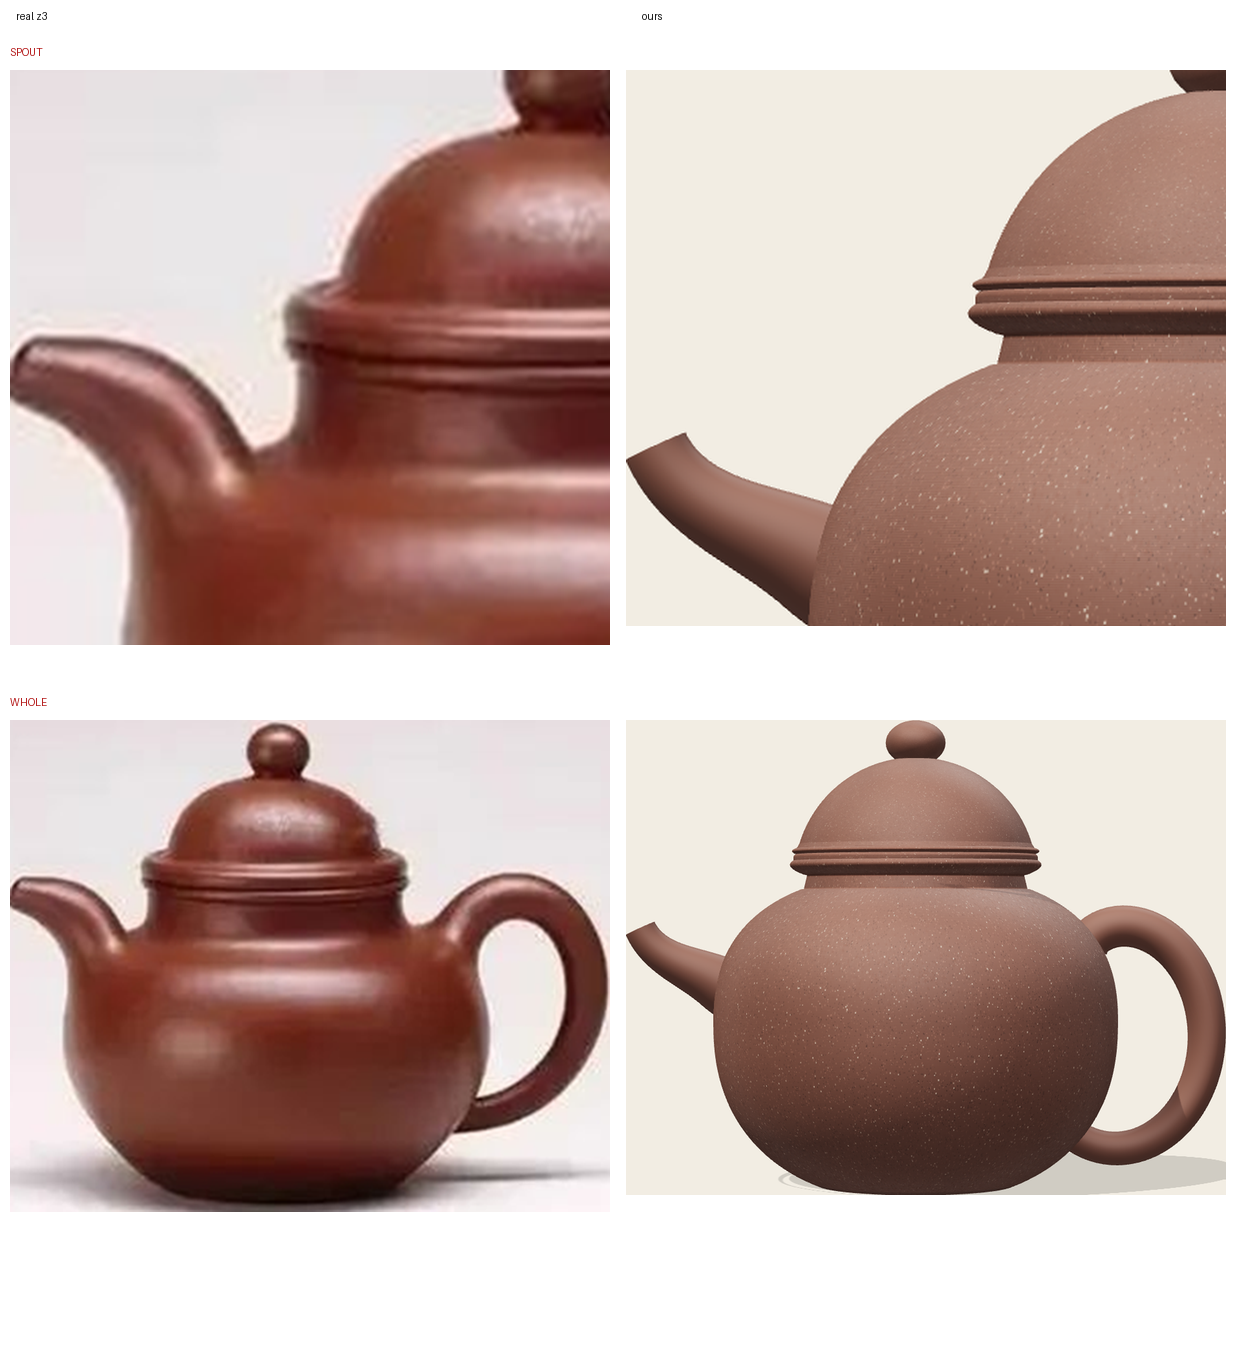
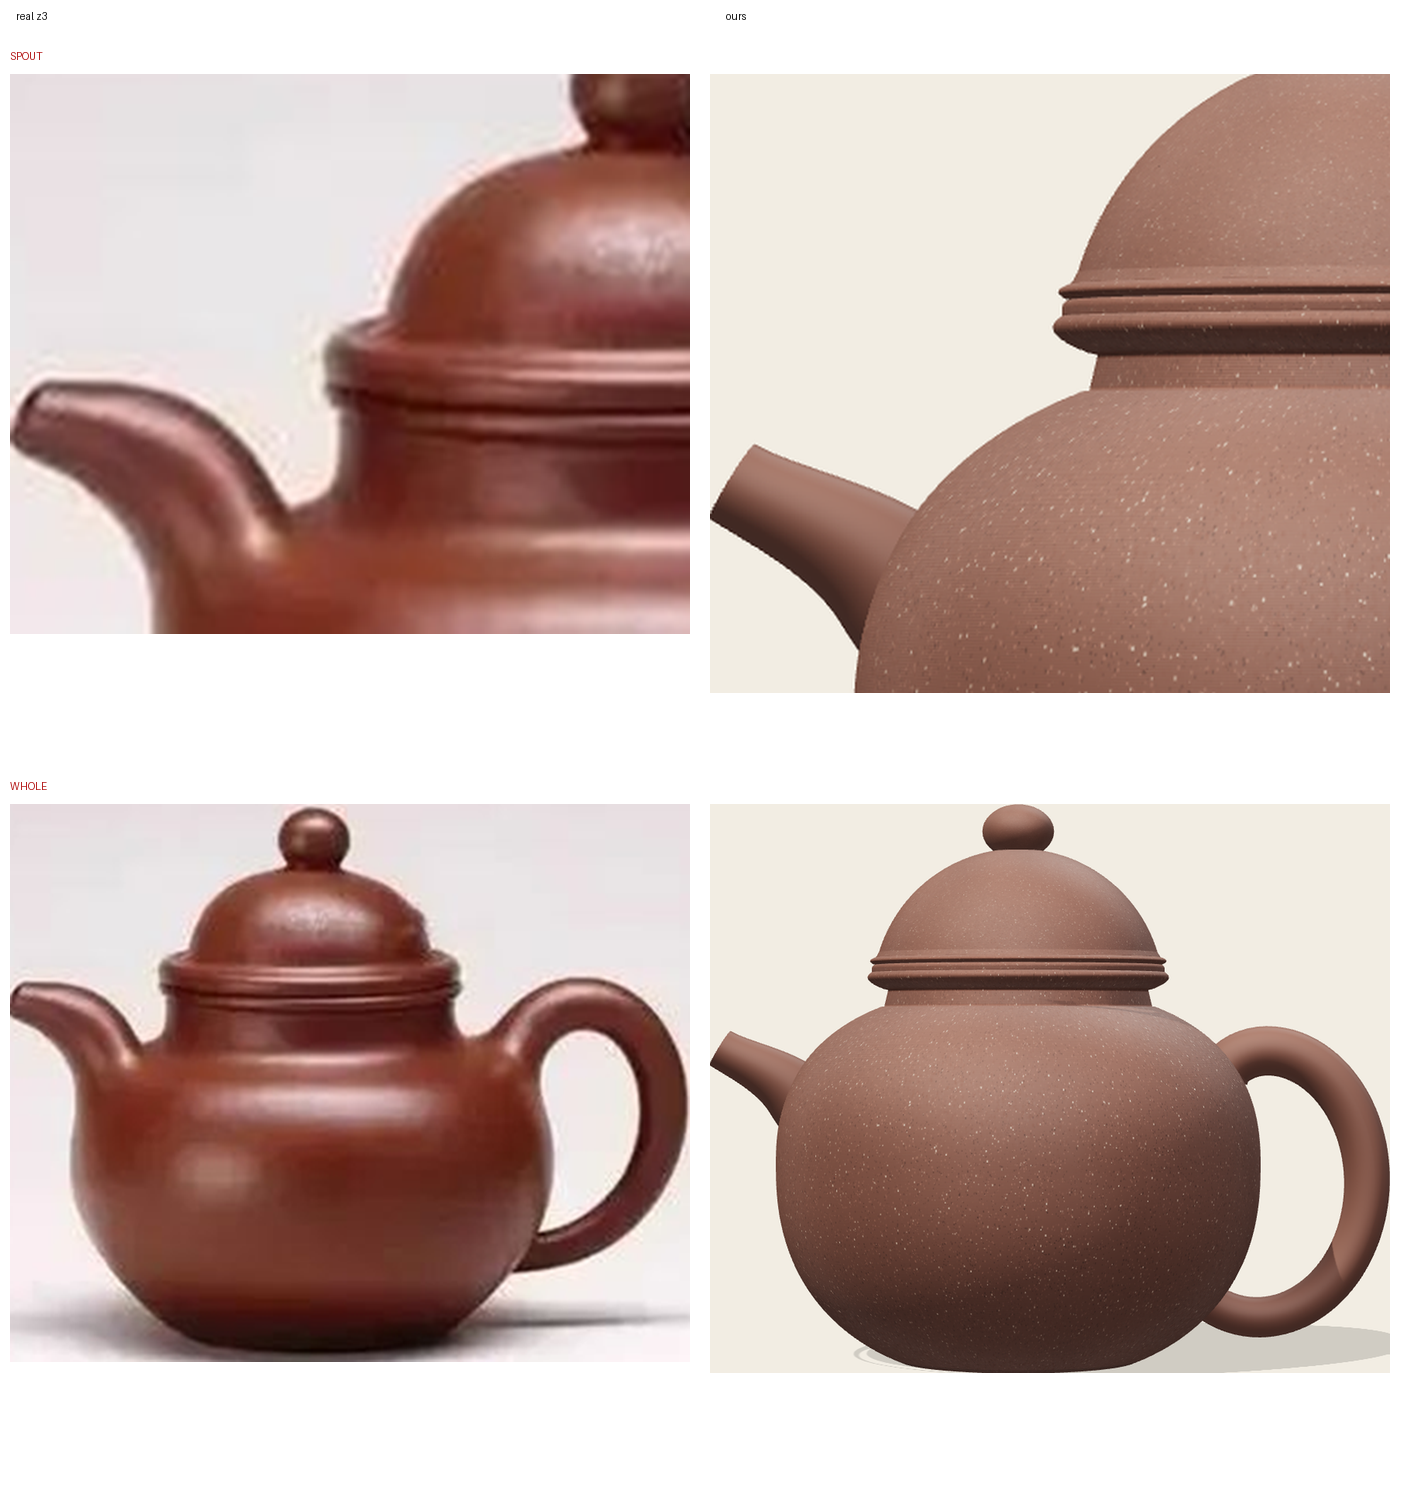
掇球: the spout bends at the root, not at the lip
"Like a log curve, now it's a square curve" — exactly right, and I had the
bending backwards. At maximum zoom all three references do the same thing: the
spout turns hard where it leaves the belly and then straightens, steep first and
flattening after. Mine left the body almost straight and put every degree of
turning into a knee near the lip. That knee is the square corner.

oneBend now decays from the root angle to the lip angle front-loaded by an
exponent:

    theta(u) = tipAngle + (rootAngle - tipAngle) (1-u)^bend + lip u^6

rather than subtracting a mid-curve dip. The dip was the mechanism producing the
corner: it flattens the middle, which leaves the whole turn to happen at the end.
tipAngle is now *small* — on the real pots the outer half runs nearly flat — and
`lip` is a short flick, not a bend.

The detail check for spouts was wrong in the same way, so it could not have
caught this: it asserted "is an S, not a U", which a square corner satisfies
perfectly well. It now asserts *where* the bending is — mean curvature over the
first third of the visible run against the last third. That is a far better
statement of the shape, and it immediately caught that my first attempt's 26°
lip flick was itself the knee: root 0.0017 against tip 0.0102.

Twelve-view QC; canon and details pass on all six pots.

Claude-Session: https://claude.ai/code/session_01Au3NkrP4Zh9Vb2uEzJxxmj

diff --git a/src/components/spouts.js b/src/components/spouts.js
@@ -39,8 +39,18 @@ export const SPOUTS = {
       // make the buried run cut across the surface obliquely, and the tube then
       // grazes it and exits as a thin fin instead of a round root.
       rootAngle: { label: '起角', min: -25, max: 45, step: 1, default: 4 },
-      tipAngle: { label: '口角', min: 10, max: 85, step: 1, default: 58 },
-      sBend: { label: '弯度', min: 0, max: 1.2, step: 0.02, default: 0.62 },
+      // where the *lip* points, measured from horizontal. Small: on the real
+      // pots the outer half of the spout runs nearly flat.
+      tipAngle: { label: '口角', min: -10, max: 60, step: 1, default: 14 },
+      // How front-loaded the turning is. The spout leaves the belly already
+      // curving hard and then straightens — steep first, flattening after, the
+      // shape of a log curve. Above 1 concentrates the bend at the root; at 1
+      // the angle changes at a constant rate and the spout reads as a straight
+      // run with a knee in it.
+      bend: { label: '弯度', min: 1, max: 4, step: 0.1, default: 2.2 },
+      // the short upward flick of the lip itself, and the only place the
+      // curvature reverses
+      lip: { label: '口上扬', min: 0, max: 45, step: 1, default: 20 },
       rootR: { label: '根径', min: 0.05, max: 0.26, step: 0.002, default: 0.155 },
       tipR: { label: '口径', min: 0.02, max: 0.12, step: 0.002, default: 0.058 },
       wall: { label: '壁厚', min: 0.005, max: 0.03, step: 0.001, default: 0.014 },
@@ -67,15 +77,18 @@ export const SPOUTS = {
       // surface square rather than slicing across it
       const x0 = rr(y0) - embed * Math.cos(nAng)
       y0 -= embed * Math.sin(nAng)
-      // The dip must not be spent on the buried run. Roughly a quarter of the
-      // curve is inside the belly; if sin(pi t) starts there, the tube has
-      // already flattened by the time it emerges and the spout reads as
-      // drooping however positive the root angle was. Shift the S so it begins
-      // at the surface: straight out along the normal, then bend.
+      // The turn must not be spent on the buried run — roughly a quarter of the
+      // curve is inside the belly — so the shaping starts at the surface.
       const tE = Math.min(0.6, embed / Math.max(p.length, 1e-3))
+      const g = p.bend ?? 2.2
+      const lip = rad(p.lip ?? 0)
       const theta = (t) => {
         const u = Math.min(1, Math.max(0, (t - tE) / (1 - tE)))
-        return a0 + (a1 - a0) * t - p.sBend * Math.sin(Math.PI * u)
+        // decay from the root angle to the lip angle, front-loaded by g, plus
+        // a flick that only bites over the last stretch. theta' is negative
+        // almost throughout and turns positive right at the end: one
+        // inflection, at the lip, which is where the real ones have it.
+        return a1 + (a0 - a1) * Math.pow(1 - u, g) + lip * Math.pow(u, 6)
       }
       const N = 88
       const pts = [new THREE.Vector3(x0, y0, 0)]

diff --git a/public/refs/index.html b/public/refs/index.html
@@ -39,6 +39,9 @@
 
 <figure><figcaption>掇球 — the new junction close-ups QC now renders (lid, spout root, both handle roots)</figcaption>
 <a href="qc_detail.png"><img src="qc_detail.png" alt=""></a></figure>
+
+<figure><figcaption>掇球 — three reference spouts at maximum zoom: the bend is at the root, then it straightens</figcaption>
+<a href="spout_zoom.png"><img src="spout_zoom.png" alt=""></a></figure>
 <figure><figcaption>掇球 — the collar band close up, after the staircase fix</figcaption>
 <a href="neck_after.png"><img src="neck_after.png" alt=""></a></figure>
 

diff --git a/README.md b/README.md
@@ -175,7 +175,7 @@ dead giveaways, so they get their own assertions on the curves themselves:
 |---|---|
 | every non-`none` slot has real geometry | a spout positioned at NaN — invisible in the render, silent in every other check |
 | handle never reverses (0 curvature sign changes) | the wiggle where a strap curls in and kicks back out |
-| spout is an S, not a U (≥1 inflection) | a 一弯嘴 that merely arcs |
+| spout bends most at the root | a straight run with a knee near the lip — reads as a square corner, not a curve |
 | spout rises across its *visible* run | a spout that sags before it climbs — measured outside the belly, since the buried quarter says nothing about what anyone sees |
 | mouth collar stands proud (rise *and* fall in r(y)) | a collar that swells and stays wide — a flange |
 
@@ -213,6 +213,17 @@ Families so far:
 | 潘壶 | `pear` | 口小肚大 with an **inflection** neither other family can make: convex round the belly, concave as it draws in to the neck. Belly in the middle third, foot narrower than the belly, a **弯嘴** curved spout, 环把 ring handle, 圆珠钮, and a flat base standing on a **底圈** foot ring. (The seal belongs on the lid rim — a decoration rule, recorded but not checkable geometrically.) |
 | 掇球 | `superellipse` + `ballCap` | 掇 means *to stack*: body, lid and knob are three balls piled on one axis, each smaller than the one below. The identity is the proportions between them — the whole pot fits a circle (盖顶至底 ≈ 身径), the mouth is the golden part of the body (E/E2 = 0.618), the lid is a true spherical cap springing from inside a narrow brim, hanging a **skirt** down over the body's projecting rim collar (唇) — 压盖 means the lid presses over the mouth, and that collar-and-skirt pair is what separates ball 1 from ball 2. A **一弯嘴** whose last third turns up so the lip faces the sky, a short **neck** carrying a **collar that stands proud**, with the lid's own ring stacked on it — two rings, each with its own shadow line. A **一弯嘴** built from its tangent angle so the S is guaranteed, an ordinary **耳形环把** — a *teardrop*, thick at the shoulder, tapering down — *not* 西施's 倒把, and a 圈足 |
 | 西施 | `superellipse` | fuller than an ellipse and asymmetric top to bottom; widest near mid-height, wider than tall, no straight run anywhere in the flank; a wide mouth closed by a **截盖** lid that runs up the body's own curve until the ball is complete (a flat-topped lid reads as the wrong family), a bead knob on the neck it converges to, a **短流略粗** spout, a fully-round **倒耳把** thick at the shoulder and tapering to the belly, flat footless base |
+
+**Log curve, not square curve.** A 一弯嘴 turns hard where it leaves the belly
+and then straightens — steep first, flattening after. Bend it the other way
+round and you get a straight run with a knee near the lip, which the eye reads
+as a square corner however smooth the maths behind it is. `oneBend` therefore
+decays from the root angle to the lip angle front-loaded by an exponent, rather
+than adding a mid-curve dip: a dip flattens the middle and dumps all the turning
+into the knee, which is the corner itself. The check asserts *where* the bending
+is — mean curvature over the first third of the visible run against the last —
+which is a far better statement of the shape than "has an inflection somewhere".
+It immediately caught that a 26° lip flick was itself the knee.
 
 **Attachments leave along the normal.** A spout whose buried run goes
 *horizontally* into a round belly cuts across the surface obliquely, and the
